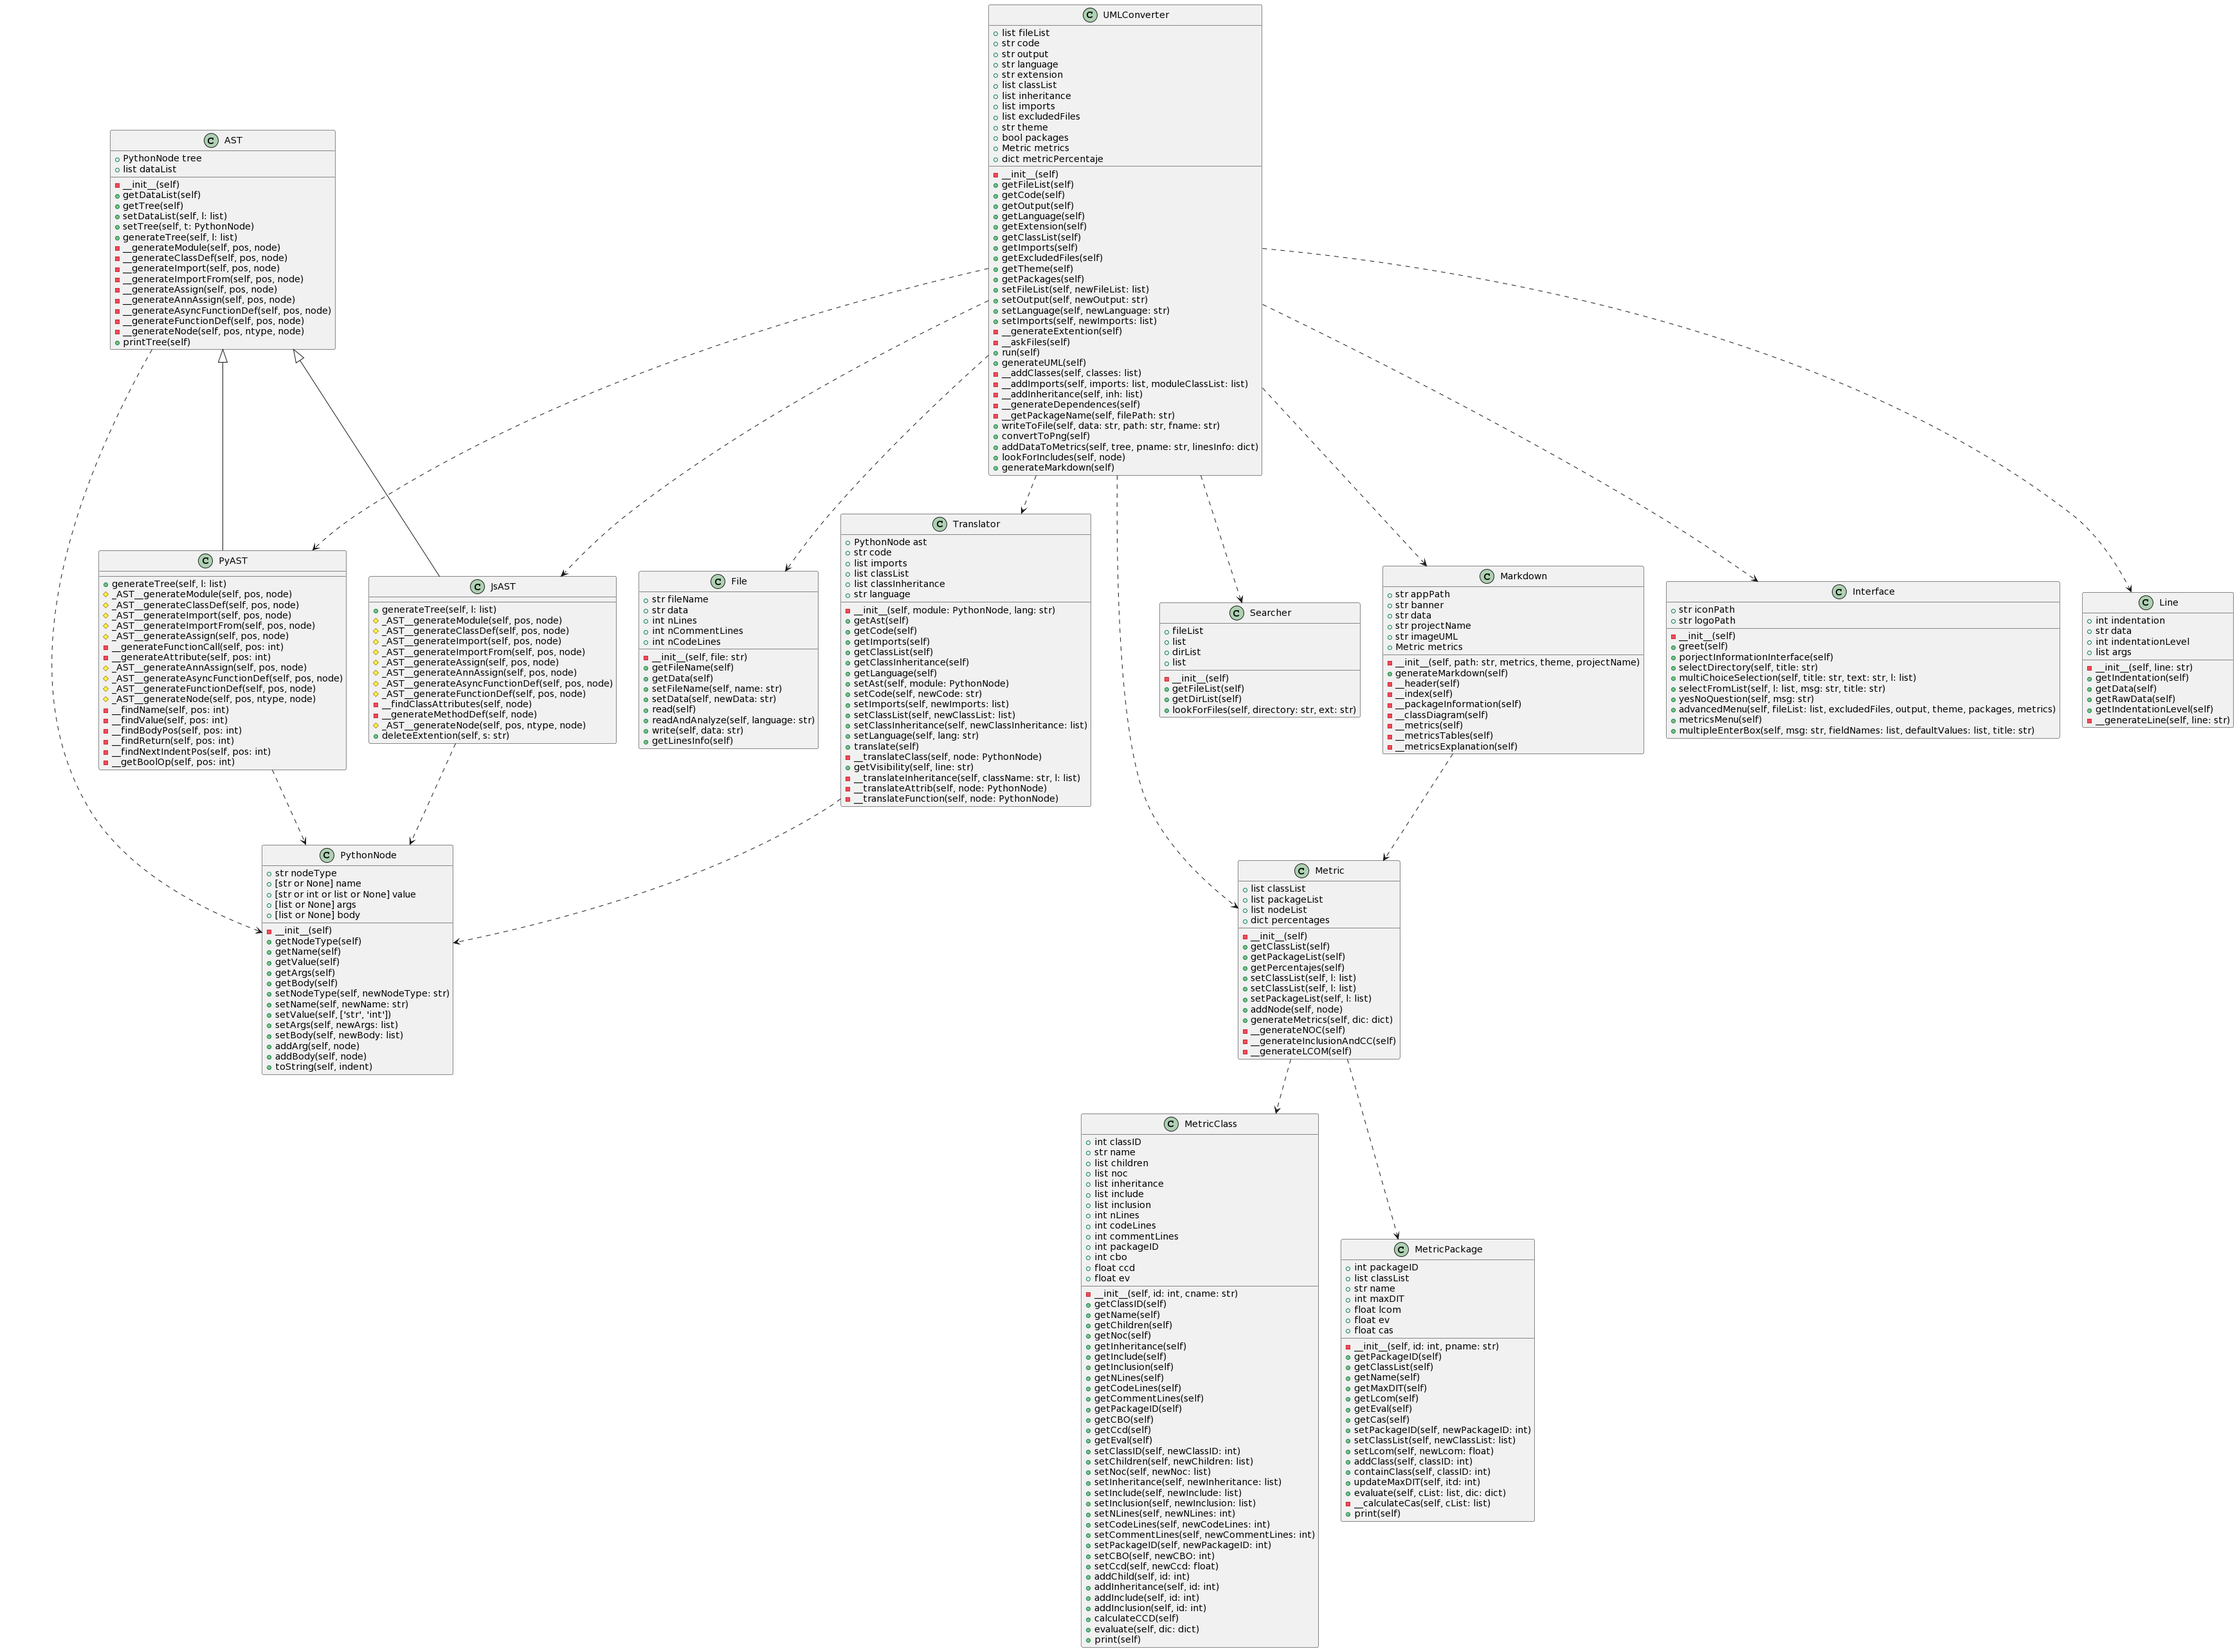
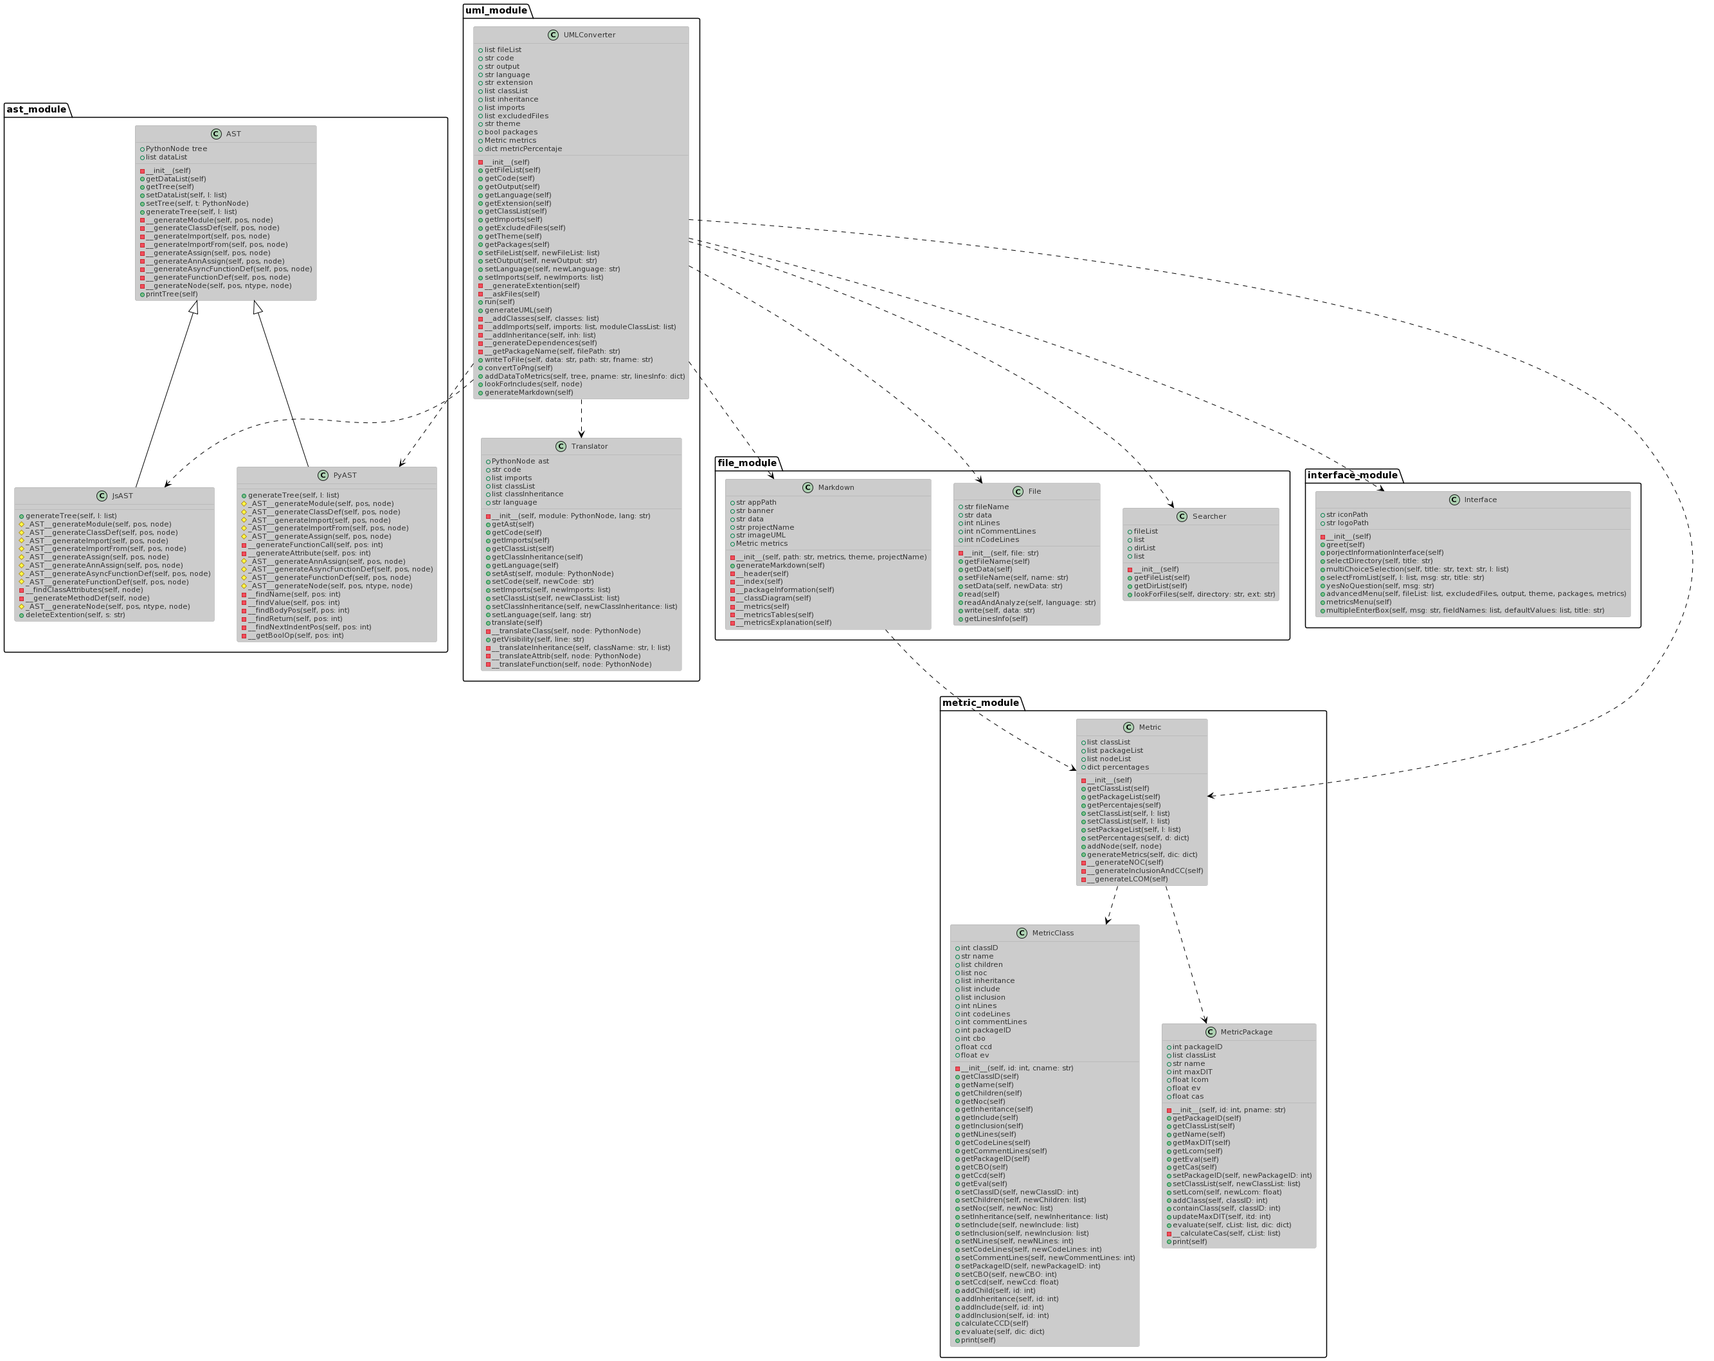
Fixed package bug

Changed region(s): [[0.0, 0.0, 1.0, 0.6547], [0.467, 0.4988, 0.7783, 1.0], [0.0, 0.0624, 0.1868, 0.2494]]

diff --git a/app/modules/interface_module/interface.py b/app/modules/interface_module/interface.py
@@ -7,7 +7,7 @@
 #   @Email:              adrianepi@gmail.com
 #   @GitHub:             https://github.com/AdrianEpi
 #   @Last Modified by:   Adrian Epifanio
-#   @Last Modified time: 2023-03-18 11:12:31
+#   @Last Modified time: 2023-03-19 08:26:51
 #   @Description:        This file describes the interface of the umlConverter and it's utilities
 
 from app.modules.utils import LANGUAGES, UMLTHEMES
@@ -175,7 +175,6 @@ class Interface:
 		msg = "Do you want to finish config and start building?"
 		choices = ["Build", "Exclude Files", "Choose Theme", "Group in Packages", "Modify Metrics", "Exit"]
 		reply = easygui.buttonbox(msg, choices = choices, image = self.logoPath)
-
 		if reply == "Build":
 			result = {
 				"ExcludedFiles": excludedFiles,
@@ -191,7 +190,7 @@ class Interface:
 		elif reply == "Choose Theme":
 			theme = self.selectFromList(msg = "Select a theme from the list:", title = "Themes", l = UMLTHEMES)
 
-		elif reply == "Packages":
+		elif reply == "Group in Packages":
 			packages = self.yesNoQuestion(msg = "Do you want to generate pacakges in the diagram?")
 
 		elif reply == "Modify Metrics":

diff --git a/outputs/projectUML.md b/outputs/projectUML.md
@@ -19,7 +19,7 @@
 
  *Legend*
 
-<img align="middle" src="E:\TFG\UMLConverter\img\legend\_none_-legend.png">
+<img align="middle" src="E:\TFG\UMLConverter\img\legend\reddress-lightblue-legend.png">
 
 ***
 
@@ -66,30 +66,30 @@
 
 | Name | Package | NOC | CodeLines | CommentLines | CCD | CBO | Score |
 | -- | -- | -- | -- | -- | -- | -- | -- |
-| AST | ast_module | 2 | 55 | 151 | 2.75 | 1 | 87.32% |
-| JsAST | ast_module | 0 | 147 | 125 | 0.85 | 2 | 79.38% |
-| Line | ast_module | 0 | 46 | 51 | 1.11 | 0 | 83.11% |
-| PyAST | ast_module | 0 | 348 | 251 | 0.72 | 2 | 73.69% |
-| PythonNode | ast_module | 0 | 79 | 104 | 1.32 | 0 | 83.11% |
-| File | file_module | 0 | 115 | 59 | 0.51 | 0 | 61.7% |
-| Markdown | file_module | 0 | 116 | 30 | 0.26 | 1 | 52.18% |
-| Searcher | file_module | 0 | 39 | 40 | 1.03 | 0 | 83.11% |
-| Interface | interface_module | 0 | 132 | 94 | 0.71 | 0 | 70.44% |
-| Metric | metric_module | 0 | 108 | 16 | 0.15 | 2 | 48.79% |
-| MetricClass | metric_module | 0 | 133 | 30 | 0.23 | 0 | 49.46% |
-| MetricPackage | metric_module | 0 | 83 | 19 | 0.23 | 0 | 49.46% |
-| Translator | uml_module | 0 | 159 | 164 | 1.03 | 1 | 84.52% |
-| UMLConverter | uml_module | 0 | 236 | 184 | 0.78 | 9 | 86.19% |
+| AST | ast_module | 2 | 55 | 151 | 2.75 | 1 | 87.83% |
+| JsAST | ast_module | 0 | 144 | 130 | 0.9 | 2 | 81.67% |
+| Line | ast_module | 0 | 46 | 51 | 1.11 | 0 | 83.5% |
+| PyAST | ast_module | 0 | 348 | 251 | 0.72 | 2 | 73.57% |
+| PythonNode | ast_module | 0 | 79 | 104 | 1.32 | 0 | 83.5% |
+| File | file_module | 0 | 117 | 75 | 0.64 | 0 | 67.3% |
+| Markdown | file_module | 0 | 126 | 93 | 0.74 | 1 | 73.13% |
+| Searcher | file_module | 0 | 39 | 40 | 1.03 | 0 | 83.5% |
+| Interface | interface_module | 0 | 134 | 115 | 0.86 | 0 | 77.2% |
+| Metric | metric_module | 0 | 124 | 87 | 0.7 | 2 | 72.67% |
+| MetricClass | metric_module | 0 | 168 | 233 | 1.39 | 0 | 83.5% |
+| MetricPackage | metric_module | 0 | 101 | 131 | 1.3 | 0 | 83.5% |
+| Translator | uml_module | 0 | 159 | 164 | 1.03 | 1 | 84.83% |
+| UMLConverter | uml_module | 0 | 237 | 193 | 0.81 | 9 | 86.95% |
 
 ### *Package Table*
 
 | Name | Class Ammount | DIT | LCOM | CAS | Score |
 | -- | -- | -- | -- | -- | -- |
-| ast_module | 5 | 1 | 0.0 | 81.0% | 86.5% |
-| file_module | 3 | 0 | 0.5 | 66.0% | 83.0% |
-| interface_module | 1 | 0 | 0.0 | 70.0% | 81.0% |
-| metric_module | 3 | 0 | 0.0 | 49.0% | 70.5% |
-| uml_module | 2 | 0 | 1.0 | 85.0% | 53.5% |
+| ast_module | 5 | 1 | 0.0 | 82.0% | 91.0% |
+| file_module | 3 | 0 | 0.5 | 75.0% | 87.5% |
+| interface_module | 1 | 0 | 0.0 | 77.0% | 88.5% |
+| metric_module | 3 | 0 | 0.0 | 80.0% | 90.0% |
+| uml_module | 2 | 0 | 1.0 | 86.0% | 58.0% |
 
 ***
 
@@ -102,14 +102,14 @@
 * **NOC**: A class's *number of children* (NOC) metric simply measures the number of immediate descendants of the class.
 * **CCD**: A class's *code comments density* (CCD) metric simply measures the ratio of comment lines per code lines.
 * **CBO**: The *coupling between object classes* (CBO) metric represents the number of classes coupled to a given class (efferent couplings, Ce). This coupling can occur through method calls, field accesses, inheritance, arguments, return types, and exceptions.
-* **Score**: The *score* of a class is calculated using 42.3% CBO + 43.7% CCD + 14.0% NOC making sure thate each metric is between the appropiate limits, the further each value is from the optimal value the less it counts for the score.
+* **Score**: The *score* of a class is calculated using 40.0% CBO + 45.0% CCD + 15.0% NOC making sure thate each metric is between the appropiate limits, the further each value is from the optimal value the less it counts for the score.
 
 ### *Package Metrics*
 
 * **DIT**: The *depth of inheritance tree* (DIT) metric provides for each class a measure of the inheritance levels from the object hierarchy top, excluding languages objects (Class, ABC, Object, BasicObject...).
 * **LCOM**: A class's *lack of cohesion in methods* (LCOM) metric counts the sets of methods in a class that are not related through the sharing of some of the class's fields.
 * **CAS**: The class average evaluation.
-* **Score**: The *score* of a package is calculated using 50.001% Average class score + 38.999% LCOM + 11.0% DIT making sure thate each metric is between the appropiate limits, the further each value is from the optimal value the less it counts for the score.
+* **Score**: The *score* of a package is calculated using 50.0% Average class score + 35.0% LCOM + 15.0% DIT making sure thate each metric is between the appropiate limits, the further each value is from the optimal value the less it counts for the score.
 
 ***
 
